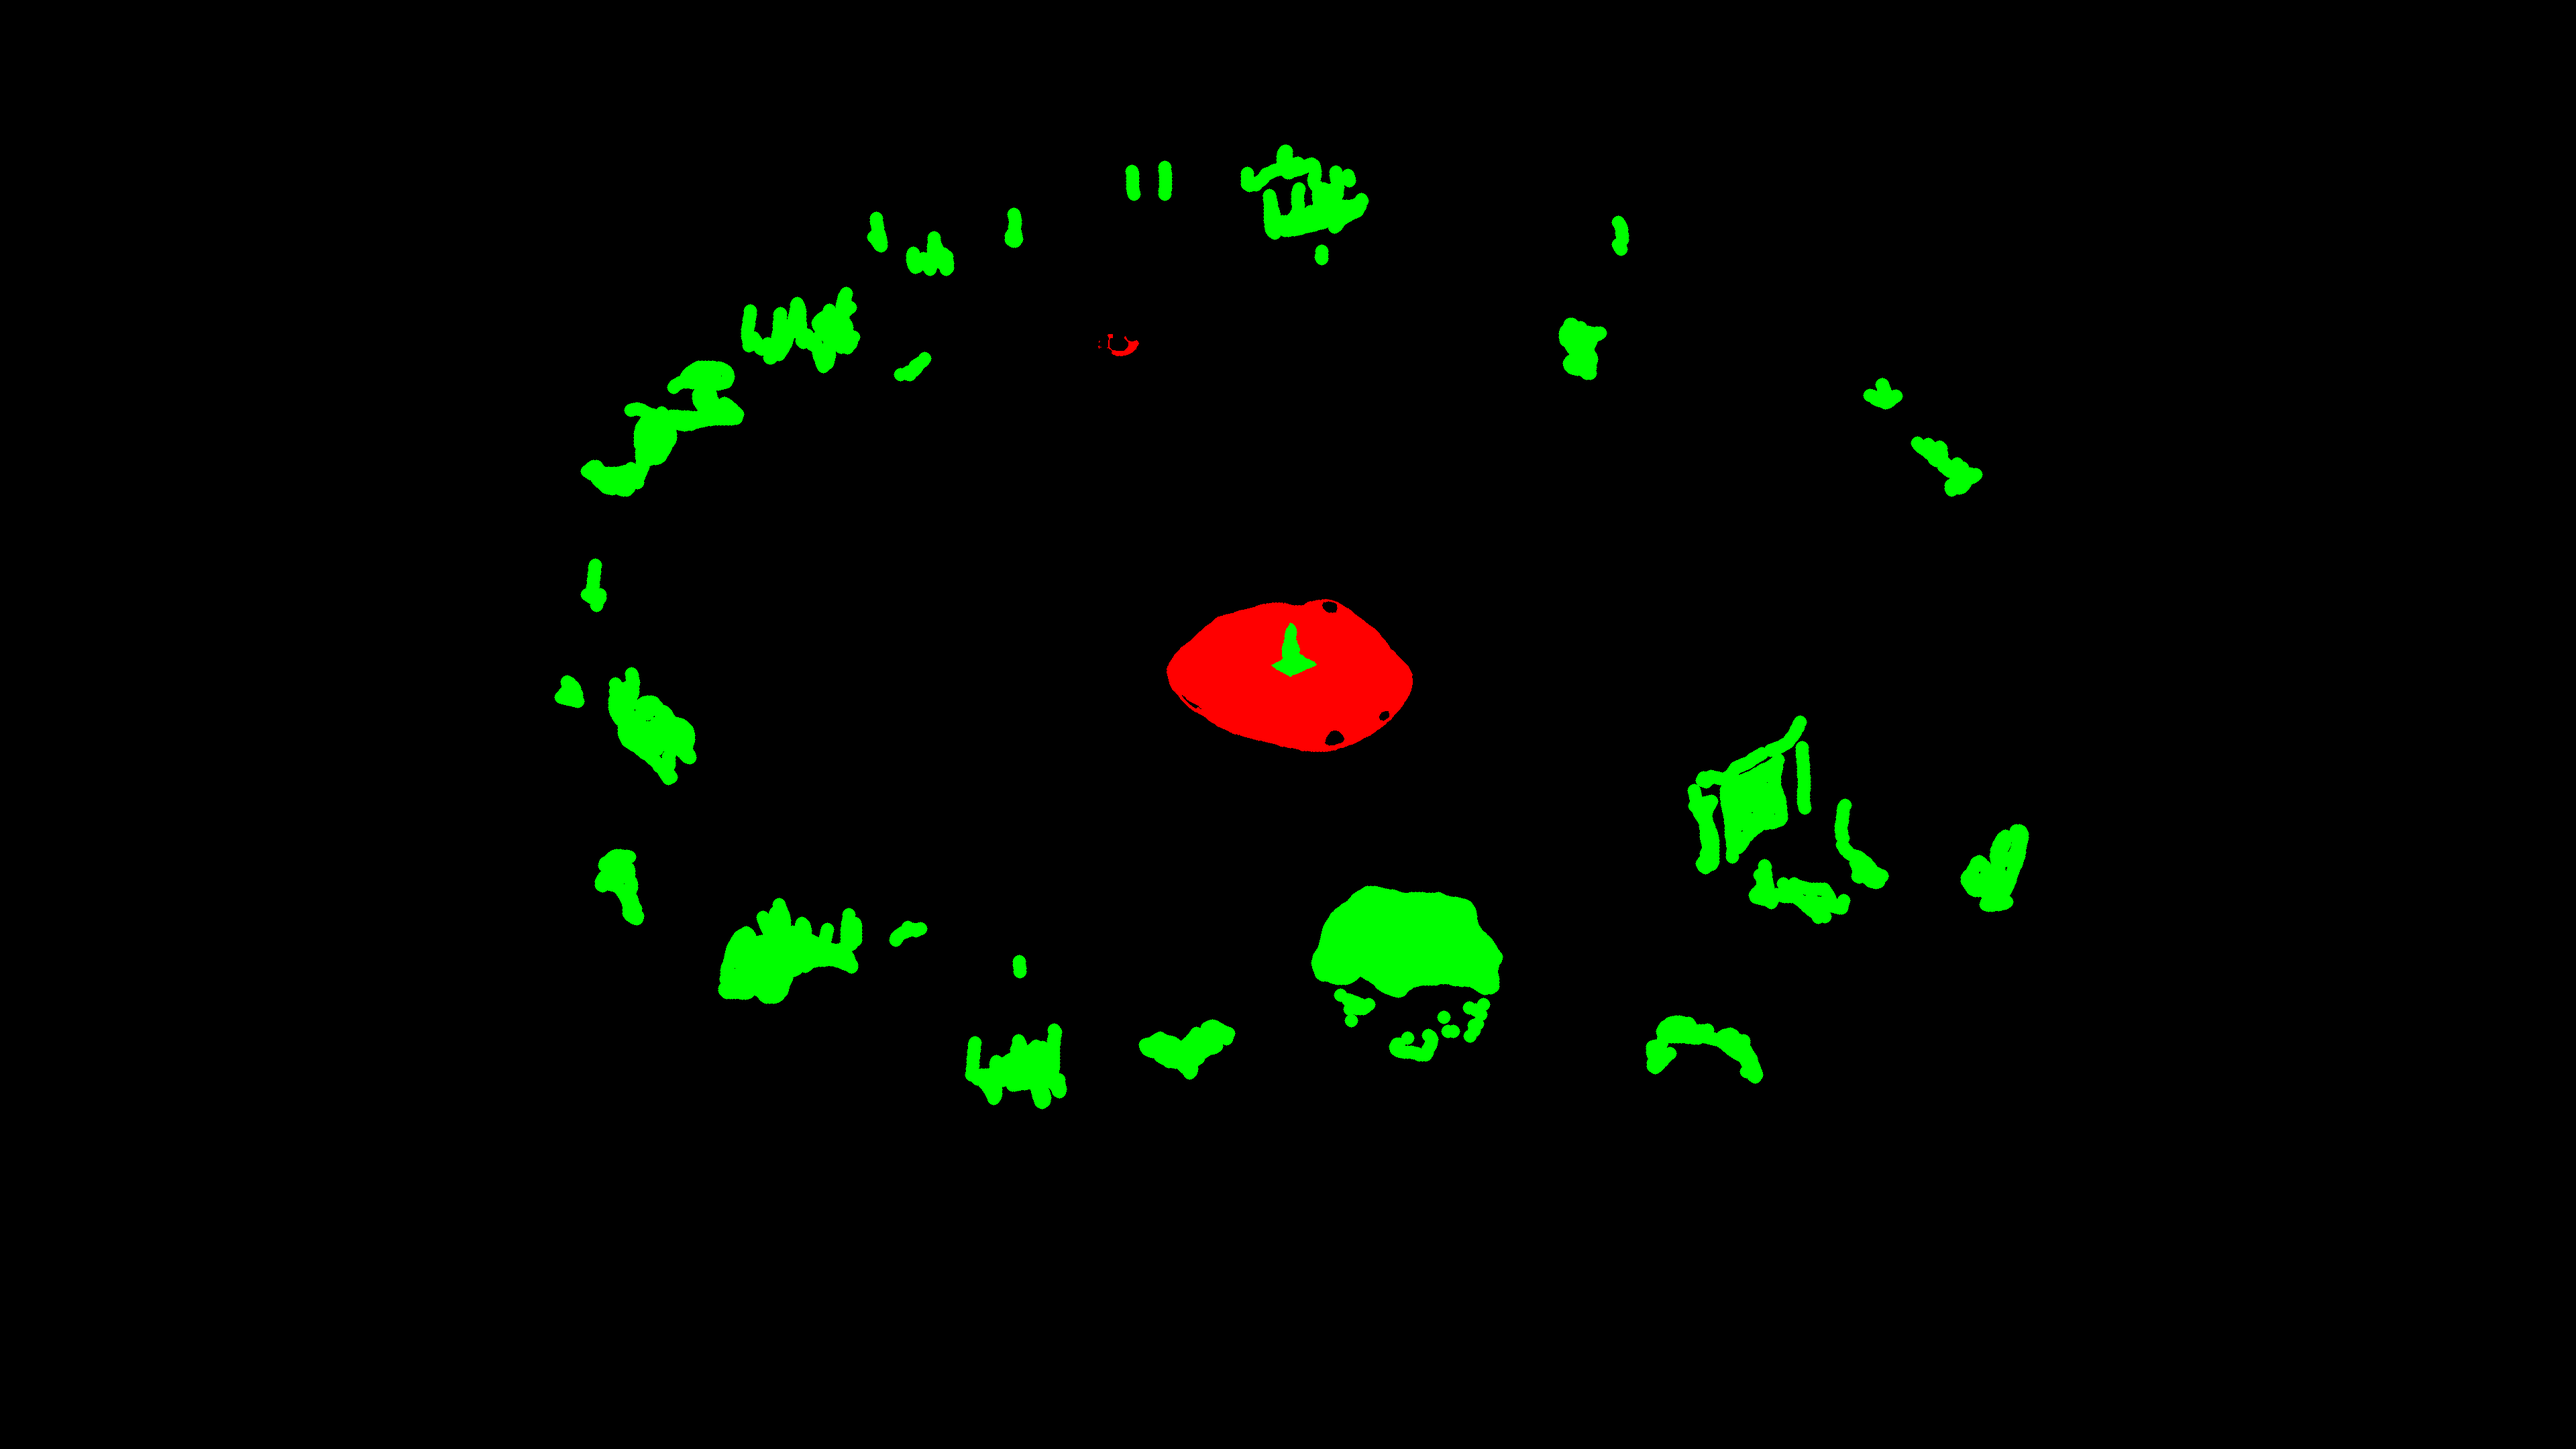
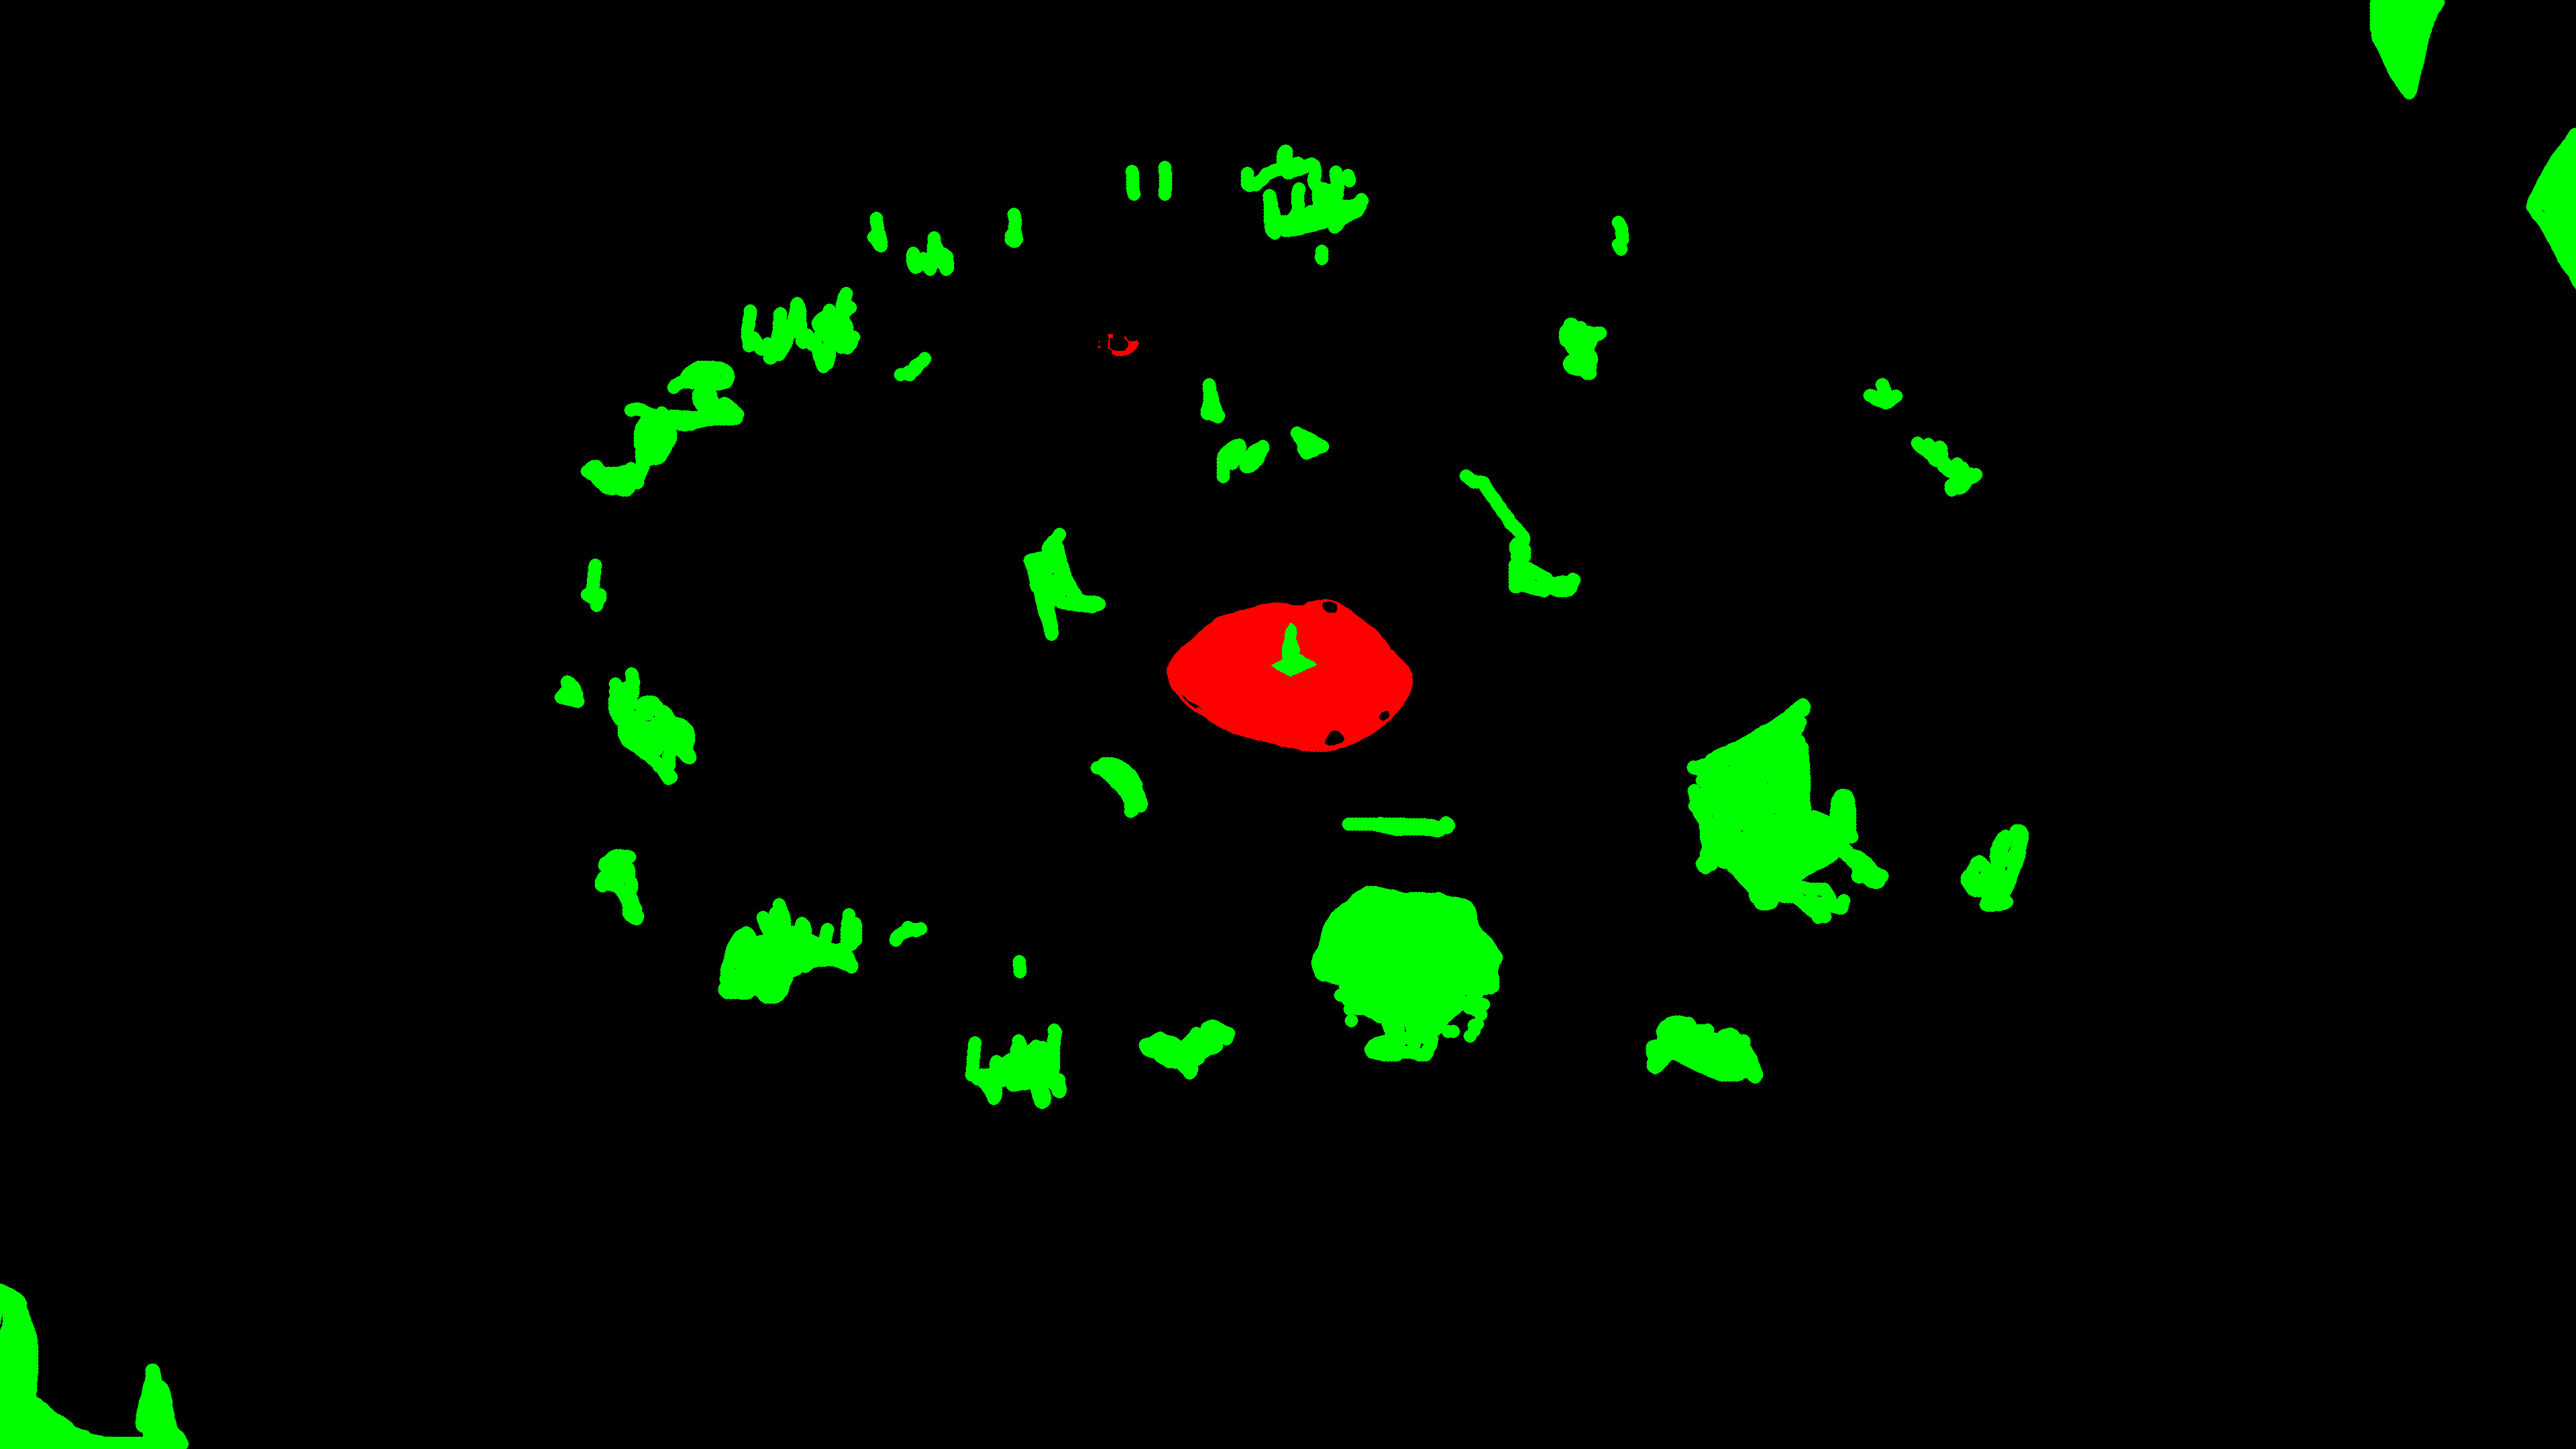
docs: update chunk 8d plan with review fixes

diff --git a/apps/demo/src/app/page.tsx b/apps/demo/src/app/page.tsx
@@ -21,7 +21,7 @@ const layers = [
     id: "cloud-front",
     src: "/overlay.png",
     zIndex: 1,
-    position: { x: 0, y: 0 },
+    // position: { x: 0, y: 0 },
     animation: [
       // {
       //   type: "wobble" as const,
@@ -42,7 +42,7 @@ const layers = [
         speed: 40,
         easing: "ease-in-out" as const,
       },
-      { type: "fade" as const, minOpacity: 0.8, maxOpacity: 1, duration: 10 }
+      { type: "fade" as const, minOpacity: 0.8, maxOpacity: 1, duration: 5 }
     ],
   },
   {
@@ -107,7 +107,7 @@ export default function Home() {
           //   id: "sparkles",
           //   mode: "twinkle",
           //   maxCount: 40,
-          //   color: "#FFD700",
+          //   color: "#fff",
           //   size: 7,
           //   sizeVariance: 0.5,
           //   twinkleDuration: 2,
@@ -116,23 +116,23 @@ export default function Home() {
           //   zIndex: 11,
           //   opacity: 0.9,
           // },
-          // {
-          //   id: "embers",
-          //   mode: "drift",
-          //   maxCount: 40,
-          //   color: "#FFD700",
-          //   size: 7,
-          //   sizeVariance: 0.4,
-          //   driftDirection: { x: 0.1, y: 1 },
-          //   driftDirectionVariance: 20,
-          //   driftSpeed: 25,
-          //   driftSpeedVariance: 0.3,
-          //   driftDistance: 120,
-          //   regionMode: "container",
-          //   // region: { x: 0, y: 0, width: 1000, height: 400 },
-          //   zIndex: 11,
-          //   opacity: 0.8,
-          // },
+          {
+            id: "embers",
+            mode: "drift",
+            maxCount: 40,
+            color: "#fff",
+            size: 7,
+            sizeVariance: 0.4,
+            driftDirection: { x: 0.1, y: 1 },
+            driftDirectionVariance: 20,
+            driftSpeed: 25,
+            driftSpeedVariance: 0.3,
+            driftDistance: 120,
+            regionMode: "container",
+            // region: { x: 0, y: 0, width: 1000, height: 400 },
+            zIndex: 11,
+            opacity: 0.8,
+          },
           // Masked particles are now configured via `maskEffects`.
           // {
           //   id: "masked-embers",
@@ -150,13 +150,13 @@ export default function Home() {
           // },
         ]}
         shaderEffects={[
-          {
-            id: "water-overlay",
-            preset: "waterRipple",
-            presetParams: { uSpeed: 1, uAmplitude: 0.1 },
-            zIndex: 9,
-            space: "viewport",
-          },
+          // {
+          //   id: "water-overlay",
+          //   preset: "waterRipple",
+          //   presetParams: { uSpeed: 1, uAmplitude: 0.1 },
+          //   zIndex: 9,
+          //   space: "viewport",
+          // },
           {
             id: "vignette",
             space: "viewport",
@@ -180,52 +180,65 @@ export default function Home() {
           {
             id: "terrain-effects",
             src: "/maps/demo-mask.png",
+            pinnedTo: 'base',
             red: {
-              preset: "waterRipple",
-              presetParams: { uSpeed: 0.8, uAmplitude: 0.015 },
+              type: "particles",
+              config: {
+                mode: "twinkle",
+                maxCount: 200,
+                color: "#d3ebfe",
+                size: 5,
+                twinkleDuration: 1.5,
+                twinkleDurationVariance: 0.8,
+              },
             },
             green: {
               type: "particles",
               config: {
-                mode: "twinkle",
+                mode: "drift",
                 maxCount: 80,
-                color: "#66ffff",
-                size: 4,
-                twinkleDuration: 2.5,
+                color: "#FFD700",
+                size: 3,
+                sizeVariance: 0.4,
+                driftDirection: { x: 0.1, y: 1 },
+                driftDirectionVariance: 20,
+                driftSpeed: 25,
+                driftSpeedVariance: 0.3,
+                driftDistance: 120,
               },
             },
-            blue: {
-              preset: "glow",
-              presetParams: { uIntensity: 0.6, uGlowColor: [0.2, 1.0, 0.3] },
-            },
+            // blue: {
+            //   preset: "glow",
+            //   presetParams: { uIntensity: 0.6, uGlowColor: [0.2, 1.0, 0.3] },
+            // },
             zIndex: 1.5,
             space: "map",
             maskBehavior: "both",
           },
-          {
-            id: "cloud-front-pinned-effects",
-            src: "/maps/demo-mask.png",
-            pinnedTo: "cloud-front",
-            red: {
-              preset: "waterRipple",
-              presetParams: { uSpeed: 0.8, uAmplitude: 0.015 },
-            },
-            green: {
-              type: "particles",
-              config: {
-                mode: "twinkle",
-                maxCount: 40,
-                color: "#9af9ff",
-                size: 4,
-                twinkleDuration: 2.5,
-              },
-            },
-            blue: {
-              preset: "glow",
-              presetParams: { uIntensity: 0.55, uGlowColor: [0.35, 0.9, 1.0] },
-            },
-            maskBehavior: "both",
-          },
+          // {
+          //   id: "cloud-front-pinned-effects",
+          //   src: "/maps/demo-mask.png",
+          //   pinnedTo: "cloud-front",
+          //   red: {
+          //     preset: "waterRipple",
+          //     presetParams: { uSpeed: 0.8, uAmplitude: 0.015 },
+          //   },
+          //   green: {
+          //     type: "particles",
+          //     config: {
+          //       mode: "twinkle",
+          //       maxCount: 40,
+          //       color: "#9af9ff",
+          //       size: 4,
+          //       twinkleDuration: 2.5,
+          //     },
+          //   },
+          //   blue: {
+          //     preset: "glow",
+          //     presetParams: { uIntensity: 0.55, uGlowColor: [0.35, 0.9, 1.0] },
+          //   },
+          //   maskBehavior: "both",
+          // },
         ]}
         onMarkerClick={(markerId) => {
           console.log("[demo] marker clicked:", markerId);

diff --git a/docs/plans/chunk-8d-layer-pinned-mask-effects-2026-02-19.md b/docs/plans/chunk-8d-layer-pinned-mask-effects-2026-02-19.md
@@ -3,6 +3,7 @@ Name: Chunk 8d — Layer-Pinned Mask Effects
 Type: Feature
 Created On: 2026-02-19
 Modified On: 2026-02-19
+Review Fixes Added: 2026-02-19
 ---
 
 # Brief
@@ -910,7 +911,90 @@ maskEffects={[
 
 Use whichever layer ID exists in the demo. The key thing to demonstrate: when panning/zooming with parallax enabled (or carousel if applicable), the pinned effects move **exactly** with the layer — no drift.
 
-## Step 9: Verify Behavior
+## Step 9: Review Fixes
+
+These are post-implementation review fixes to address minor issues found during code review.
+
+### 9a. Fix `maskBehavior` default inconsistency in `PinnedParticleEffect`
+
+**File:** `packages/interactive-map/src/components/PinnedParticleEffect.tsx`
+
+The `PinnedParticleEffectConfig` type documents the default `maskBehavior` as `"both"`, but the component's runtime default is `"spawn"`. Change the default to match the documented behavior.
+
+**Before:**
+```ts
+const maskBehavior = config.maskBehavior ?? "spawn";
+```
+
+**After:**
+```ts
+const maskBehavior = config.maskBehavior ?? "both";
+```
+
+> **Note:** The resolver at `maskEffectResolver.ts` always explicitly sets `maskBehavior: config.maskBehavior ?? "both"`, so this only affects direct usage of `PinnedParticleEffect`. But the runtime default should match the type documentation to avoid confusion.
+
+### 9b. Remove unused `viewportRef` prop from `PinnedParticleEffect`
+
+**File:** `packages/interactive-map/src/components/PinnedParticleEffect.tsx`
+
+The `viewportRef` prop is accepted but never meaningfully used — the only reference is a no-op `void viewportRef.current;`. Since pinned particles inherit all transforms from the parent mesh and don't need viewport data, remove it.
+
+1. Remove `viewportRef` from the `PinnedParticleEffectProps` interface:
+
+```ts
+interface PinnedParticleEffectProps {
+  config: PinnedParticleEffectConfig;
+  /** Width of the parent layer's geometry (includes autoScale) */
+  geoWidth: number;
+  /** Height of the parent layer's geometry (includes autoScale) */
+  geoHeight: number;
+}
+```
+
+2. Remove `viewportRef` from the destructured props in the component function signature.
+
+3. Remove the no-op `void viewportRef.current;` line from the `useFrame` callback.
+
+**File:** `packages/interactive-map/src/components/MapLayerMesh.tsx`
+
+4. Update all `<PinnedParticleEffect>` render sites (main mesh and carousel clone) to stop passing `viewportRef`:
+
+**Before:**
+```tsx
+<PinnedParticleEffect
+  key={effect.id}
+  config={effect}
+  geoWidth={geoWidth}
+  geoHeight={geoHeight}
+  viewportRef={viewportRef}
+/>
+```
+
+**After:**
+```tsx
+<PinnedParticleEffect
+  key={effect.id}
+  config={effect}
+  geoWidth={geoWidth}
+  geoHeight={geoHeight}
+/>
+```
+
+Apply the same change to the carousel clone instance (with `key={`${effect.id}-clone`}`).
+
+### 9c. Add note about carousel clone particle state divergence
+
+**File:** `packages/interactive-map/src/components/MapLayerMesh.tsx`
+
+This is a documentation-only change. Add a comment above the carousel clone's pinned effects to clarify that clone particles have independent random state:
+
+```tsx
+{/* Pinned effects on the clone have independent particle state (different random positions).
+    This is acceptable because both meshes are rarely visible simultaneously during carousel wrap. */}
+{pinnedEffects?.shaderEffects.map((effect) => (
+```
+
+## Step 10: Verify Behavior
 
 No code changes — verification during testing:
 
@@ -939,7 +1023,11 @@ No code changes — verification during testing:
 12. Standalone (non-pinned) mask effects continue to work as before.
 13. Demo showcases a pinned mask effect on a layer.
 14. The app builds without errors (`pnpm build`).
+15. `PinnedParticleEffect` runtime default for `maskBehavior` is `"both"`, matching the type documentation.
+16. `PinnedParticleEffect` does not accept an unused `viewportRef` prop.
+17. Carousel clone's pinned effects have a comment clarifying independent particle state.
 
 # Log
 
 - **2026-02-19 (Created):** Initial plan for Chunk 8d — Layer-Pinned Mask Effects. Adds `pinnedTo` field to `MaskEffectConfig` that pins effects to a map layer via Three.js parent-child scene graph. Creates `PinnedShaderEffect` and `PinnedParticleEffect` lightweight components that skip position/parallax logic (inherited from parent). Updates `MapLayerMesh` to render pinned effects as children of the layer mesh (including carousel clone). Updates resolver to partition effects into standalone vs pinned. Extracts shared particle shaders to a utility file.
+- **2026-02-19 (Review Fixes):** Added Step 9 with three post-review fixes: (9a) Fix `maskBehavior` runtime default in `PinnedParticleEffect` from `"spawn"` to `"both"` to match type docs. (9b) Remove unused `viewportRef` prop from `PinnedParticleEffect` and its render sites in `MapLayerMesh`. (9c) Add clarifying comment about carousel clone having independent particle random state.
